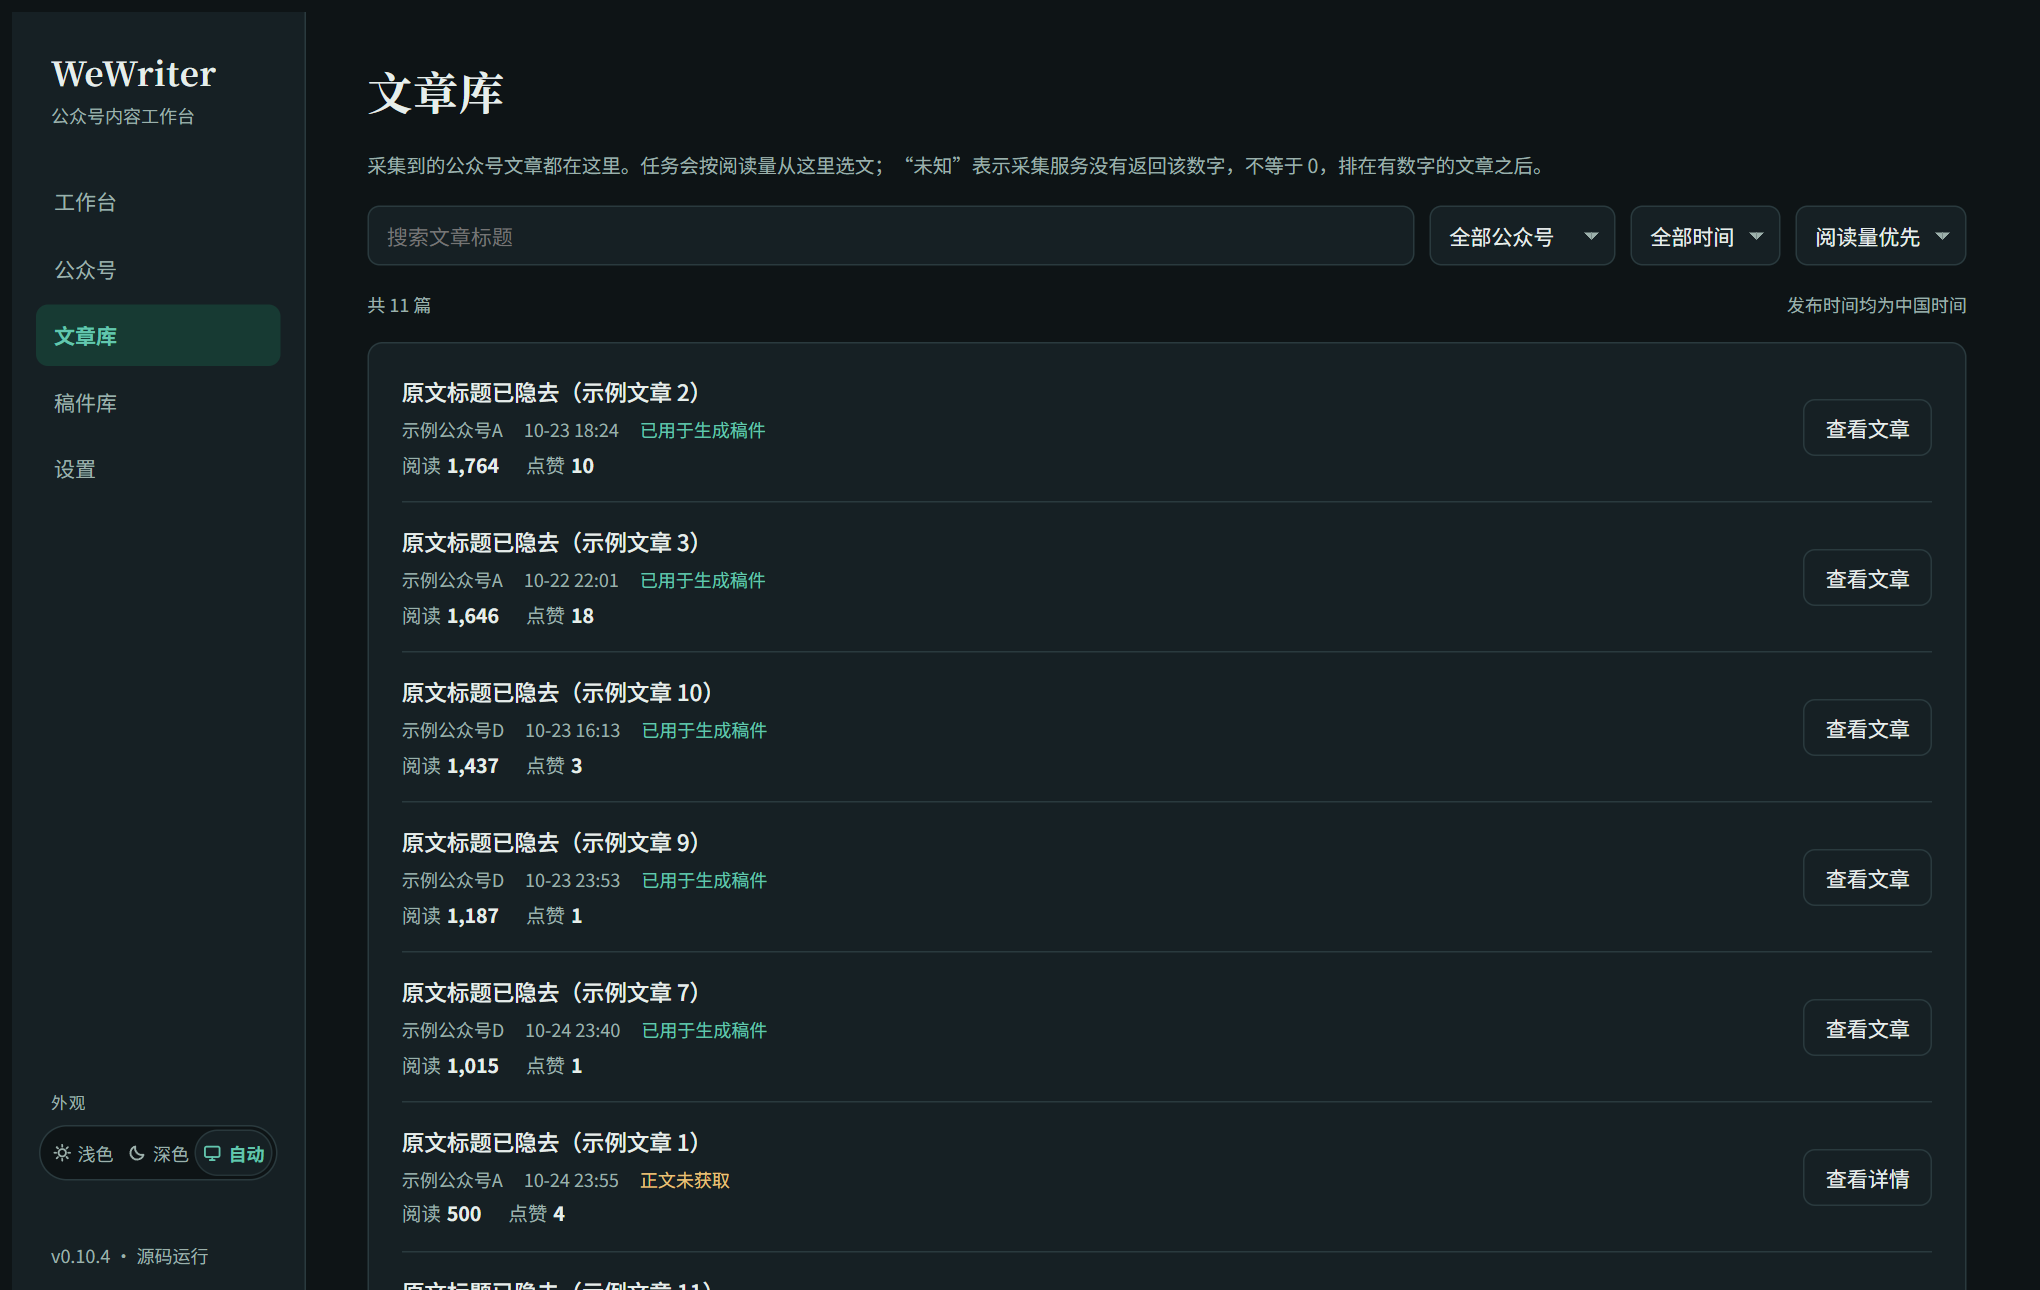
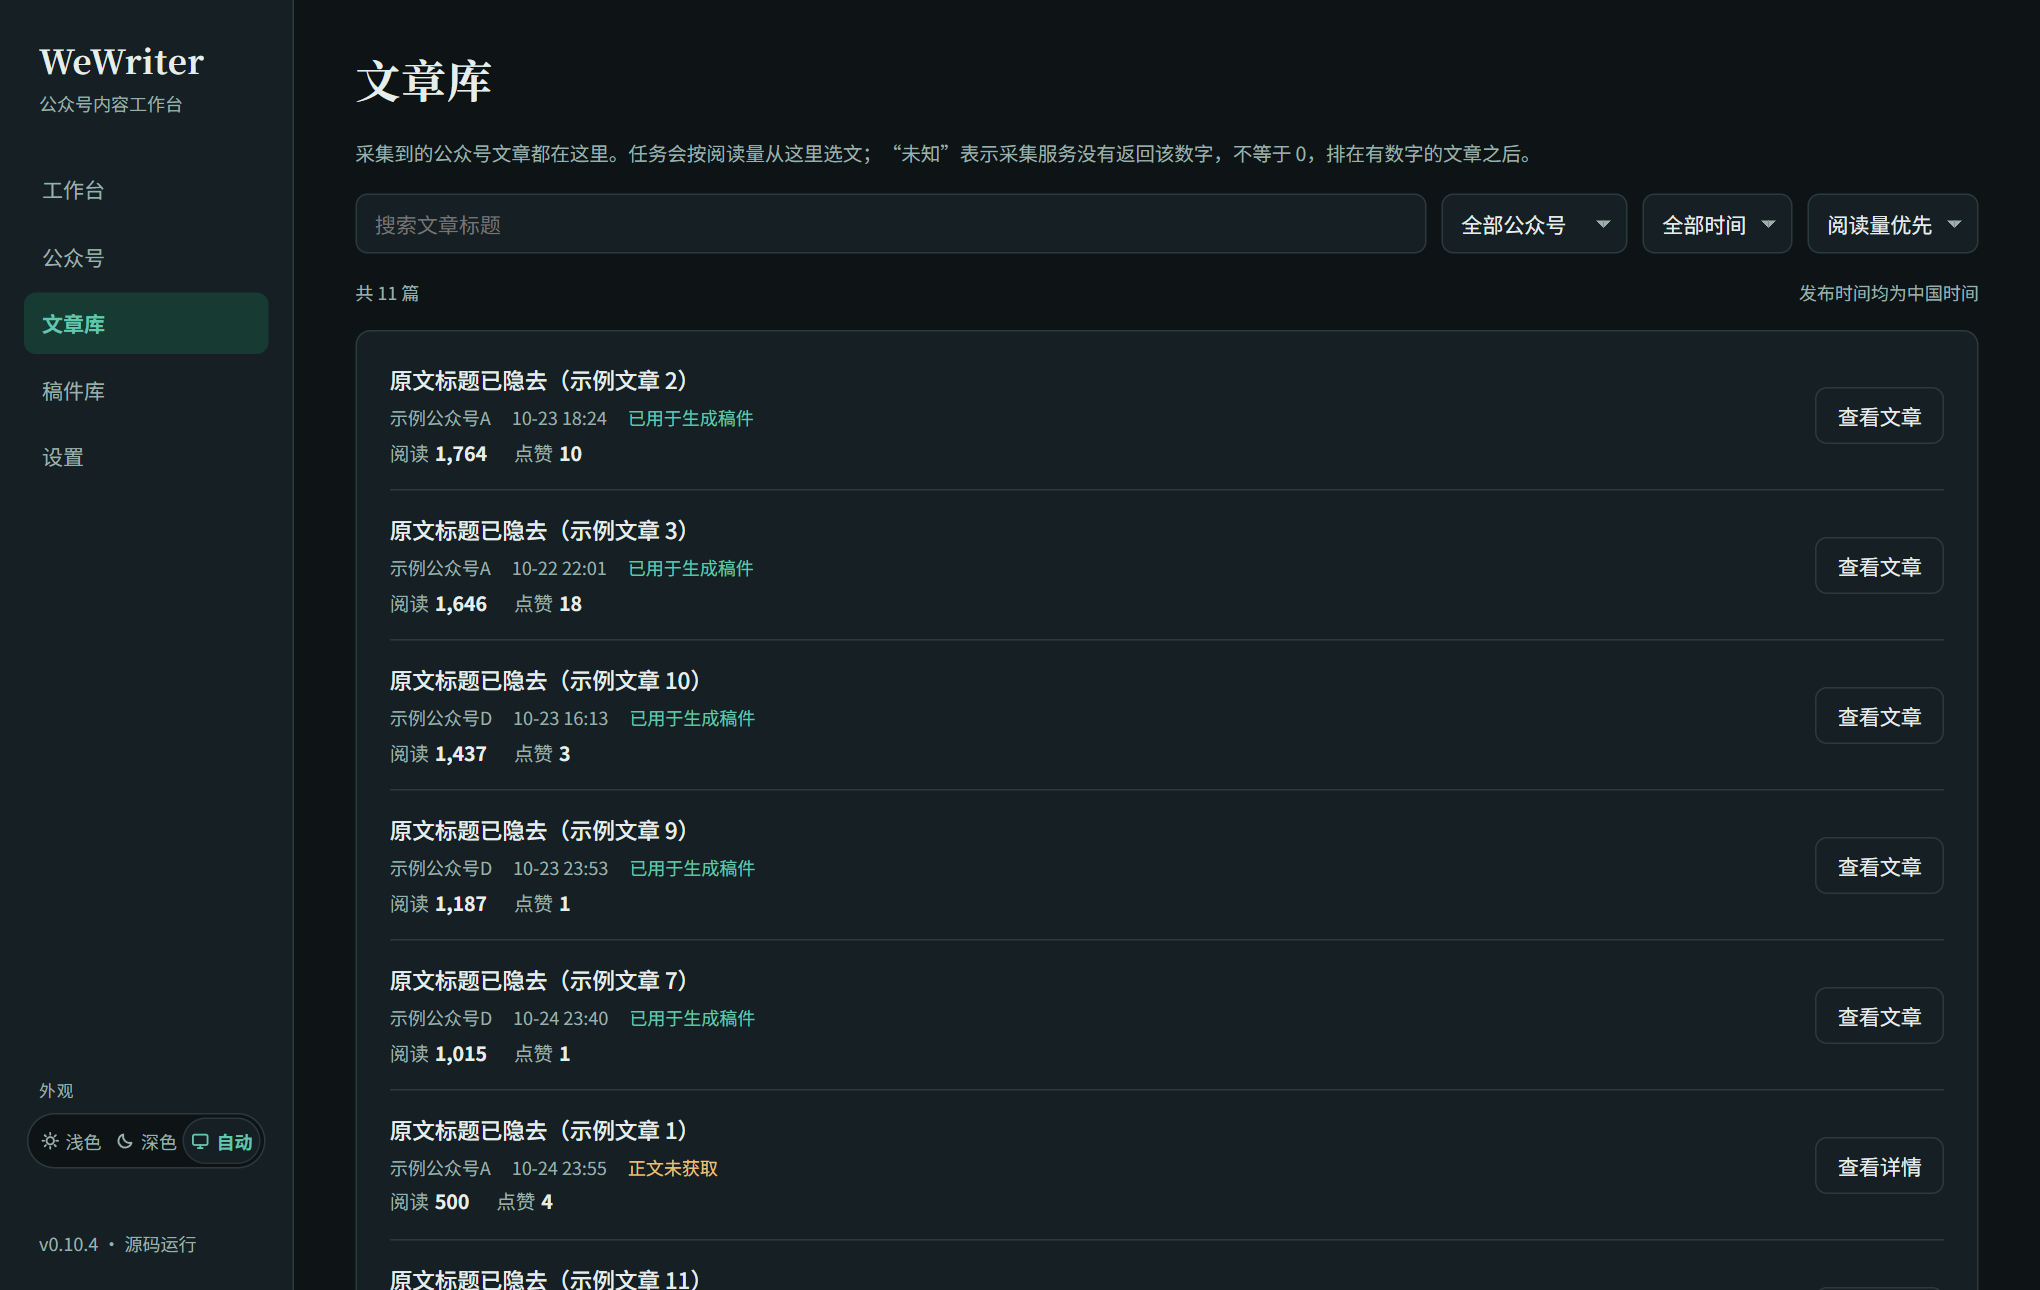
fix: remove default page margin so the sidebar is flush and does not shift

diff --git a/wewriter/web/common.js b/wewriter/web/common.js
@@ -99,6 +99,8 @@ document.head.insertAdjacentHTML('beforeend', `<style>
 .cbox-row { display: flex; gap: 8px; justify-content: flex-end; flex-wrap: wrap; }
 .toast { position: fixed; left: 50%; bottom: 28px; transform: translateX(-50%); background: var(--ink); color: var(--sheet); padding: 8px 16px; border-radius: 8px; font-size: 13px; z-index: 60; max-width: calc(100% - 32px); }
 .loading { color: var(--ink-2); font-size: 13px; padding: 18px 0; }
+/* No browser default margin: it left a gap around the sidebar and made it shift 8px once sticky. */
+html, body { margin: 0; }
 /* The sidebar stays put while the page scrolls (wide windows; narrow ones use the top bar). */
 @media (min-width: 761px) { .rail { position: sticky; top: 0; height: 100vh; overflow-y: auto; align-self: start; } }
 /* The side tab closes drawers; the old text button stays only as the tab's click target. */
